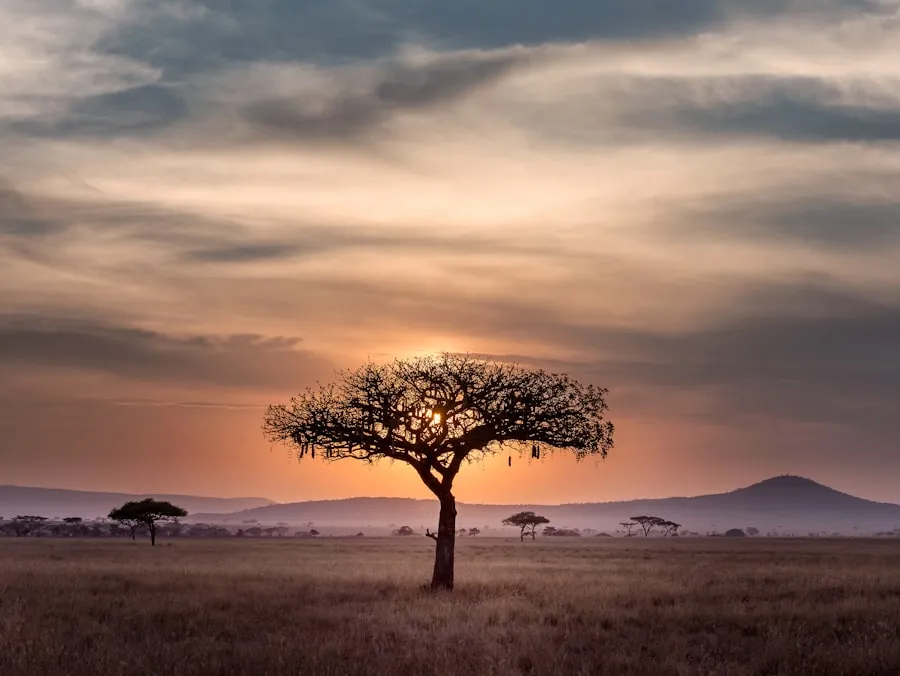
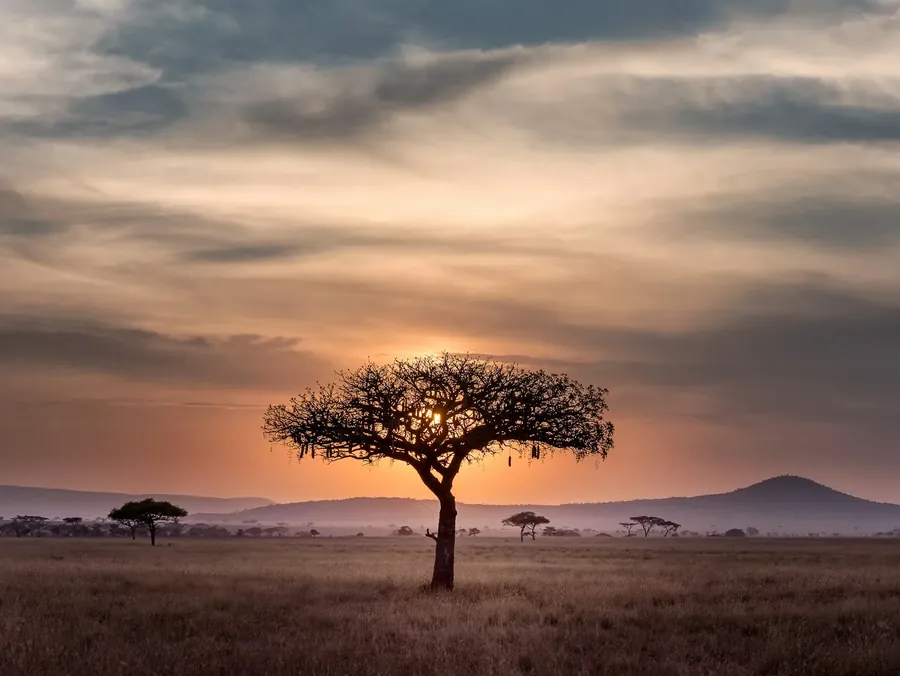
Portada: fotos del hero en diferido con variante móvil de 900px y enlace interno a la landing de agencia
- Solo se descarga de inicio la primera foto del carrusel (64 KB en móvil, antes 258 KB); las otras 6 (~1,4 MB) se aplican tras el load con la variante que toca según pantalla
- Preload del hero con media queries (900px móvil / 1920px escritorio)
- «agencia de viajes de lujo a medida en Barcelona» en el texto de la portada, enlazando a /agencia-viajes-lujo-barcelona/

Changed region(s): [[0.28, 0.5281, 0.6844, 0.6834]]

diff --git a/index.html b/index.html
@@ -7,7 +7,8 @@
     <title>Viajes de Lujo a Medida en Barcelona | Horizonte Exclusivo</title>
     <meta name="description" content="Agencia de viajes de lujo a medida en Barcelona. Diseñamos lunas de miel, safaris y rutas exclusivas por todo el mundo. Cuéntanos tu viaje soñado.">
     <link rel="canonical" href="https://www.horizonteexclusivo.es/">
-    <link rel="preload" as="image" href="/images/photos/photo-1476610182048-b716b8518aae-1920.webp" fetchpriority="high">
+    <link rel="preload" as="image" href="/images/photos/photo-1476610182048-b716b8518aae-900.webp" fetchpriority="high" media="(max-width: 768px)">
+    <link rel="preload" as="image" href="/images/photos/photo-1476610182048-b716b8518aae-1920.webp" fetchpriority="high" media="(min-width: 769px)">
 
     <!-- Open Graph (WhatsApp, Facebook, LinkedIn) -->
     <meta property="og:url" content="https://www.horizonteexclusivo.es/">
@@ -68,6 +69,13 @@
 
 .hero-slide.active {
     opacity: 1;
+}
+
+/* En móvil el primer slide baja a la variante de 900px (!important porque el fondo viene inline) */
+@media (max-width: 768px) {
+    .hero-slide:first-child {
+        background-image: url('/images/photos/photo-1476610182048-b716b8518aae-900.webp') !important;
+    }
 }
 
 .hero-slide::after {
@@ -1541,12 +1549,12 @@ section {
     <!-- HERO -->
     <section class="hero">
         <div class="hero-slide active" style="background-image:url('/images/photos/photo-1476610182048-b716b8518aae-1920.webp')"></div>
-        <div class="hero-slide" style="background-image:url('/images/photos/photo-1608566059145-ee97cd1a9c7c-1920.webp')"></div>
-        <div class="hero-slide" style="background-image:url('/images/photos/photo-1522083165195-3424ed129620-1920.webp')"></div>
-        <div class="hero-slide" style="background-image:url('/images/photos/photo-1525220964737-6c299398493c-1920.webp')"></div>
-        <div class="hero-slide" style="background-image:url('/images/photos/photo-1516026672322-bc52d61a55d5-1920.webp')"></div>
-        <div class="hero-slide" style="background-image:url('/images/photos/photo-1549035092-33b2937b075a-1920.webp')"></div>
-        <div class="hero-slide" style="background-image:url('/images/photos/photo-1462400362591-9ca55235346a-1920.webp')"></div>
+        <div class="hero-slide" data-bg="/images/photos/photo-1608566059145-ee97cd1a9c7c-1920.webp"></div>
+        <div class="hero-slide" data-bg="/images/photos/photo-1522083165195-3424ed129620-1920.webp"></div>
+        <div class="hero-slide" data-bg="/images/photos/photo-1525220964737-6c299398493c-1920.webp"></div>
+        <div class="hero-slide" data-bg="/images/photos/photo-1516026672322-bc52d61a55d5-1920.webp"></div>
+        <div class="hero-slide" data-bg="/images/photos/photo-1549035092-33b2937b075a-1920.webp"></div>
+        <div class="hero-slide" data-bg="/images/photos/photo-1462400362591-9ca55235346a-1920.webp"></div>
         <div class="hero-slide" style="background-image:url('/images/photos/photo-1659944984855-776187144baf-1920.webp')"></div>
         <div class="hero-slide" style="background-image:url('/images/photos/photo-1623941000199-7176fa973212-1920.webp')"></div>
         <div class="hero-slide" style="background-image:url('/images/photos/photo-1693260741045-2c136abbb95f-1920.webp')"></div>
@@ -2531,7 +2539,7 @@ section {
                 <div class="about-preview-text">
                     <p>Cuando alguien me habla de un viaje, mi cabeza empieza a trabajar. Busco vuelos, analizo hoteles, leo reseñas y afino cada decisión. No puedo evitarlo. Montar viajes no es solo algo que se me da bien: es mi pasión.</p>
 
-                    <p>Horizonte Exclusivo es la materialización de ese sueño. Un proyecto profundamente personal en el que cada viaje se concibe como una obra única, no como un producto en serie.</p>
+                    <p>Horizonte Exclusivo es la materialización de ese sueño: una <a href="/agencia-viajes-lujo-barcelona/" style="color: var(--gold); text-decoration: underline;">agencia de viajes de lujo a medida en Barcelona</a>. Un proyecto profundamente personal en el que cada viaje se concibe como una obra única, no como un producto en serie.</p>
 
                     <div class="about-quote">
                         <p>El verdadero lujo no es pagar más, sino ganar tranquilidad, tiempo y la certeza de que todo está pensado para ti.</p>
@@ -2667,6 +2675,15 @@ section {
         // Hero carousel
         (function() {
             const slides = document.querySelectorAll('.hero-slide');
+            // Los fondos 2-7 vienen en data-bg y se aplican tras el load para no competir con el primer pintado
+            const cargarFondos = () => {
+                const sufijo = window.matchMedia('(max-width: 768px)').matches ? '-900.webp' : '-1920.webp';
+                slides.forEach(s => {
+                    if (s.dataset.bg) s.style.backgroundImage = "url('" + s.dataset.bg.replace('-1920.webp', sufijo) + "')";
+                });
+            };
+            if (document.readyState === 'complete') cargarFondos();
+            else window.addEventListener('load', cargarFondos);
             let current = 0;
             setInterval(() => {
                 slides[current].classList.remove('active');
